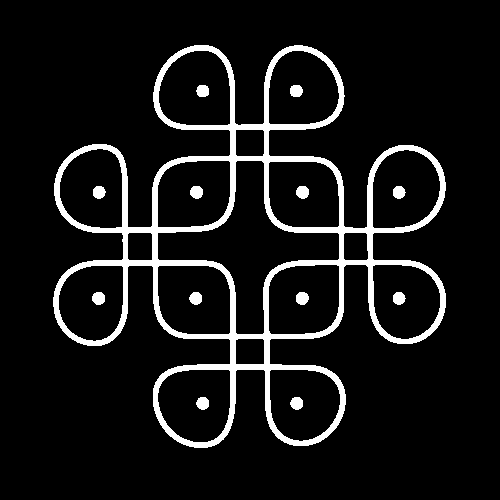
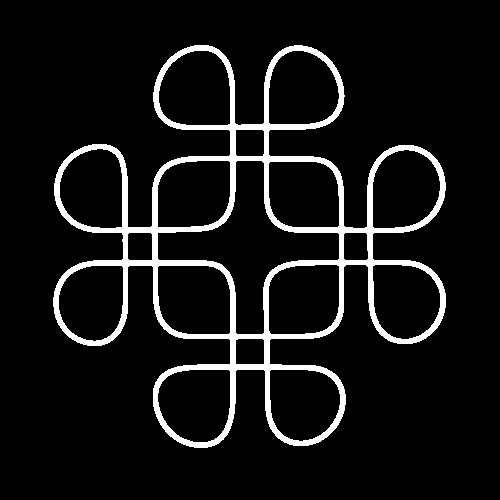
Fix1 dot area 150->100: 92% pipeline OK

diff --git a/src/detect_dots.py b/src/detect_dots.py
@@ -17,7 +17,7 @@ def detect_dots(path):
     for i in range(1, n):
         x, y, w, h, area = stats[i]
         roundness = area / (3.14159 * (max(w, h) / 2) ** 2)
-        if 150 < area < 4000 and 0.6 < w / h < 1.5 and roundness > 0.5:
+        if 100 < area < 4000 and 0.6 < w / h < 1.5 and roundness > 0.5:
             cx, cy = centroids[i]
             r = int(max(w, h) / 2) + 8
             cv2.circle(img, (int(cx), int(cy)), r, (0, 0, 255), 3)

diff --git a/docs/failures.md b/docs/failures.md
@@ -17,7 +17,7 @@ Add a row only when something really breaks. This is the answer bank for questio
 | 10 | k03 copy, 4000 x 3800 px (bad-input test A, 14 Nov) | App, resize | NOT a failure. Test of a huge picture. The app ran the whole pipeline as a normal picture, found dots and showed the path trace. No crash. Teju: "works pretty well". Dot count and GIF details were not written down | Nothing needed. The app resizes every upload to 500 px wide before any stage, so a huge picture is made small first |
 | 11 | Text file renamed `trap.png` (bad-input test B, 14 Nov) | App, open check | NOT a failure. The app said the file is not an image and did not crash. Exact words on screen NOT yet copied (the code's message is "This file is not a picture I can open.") | `cv2.imdecode` returns nothing for a non-picture, and the app shows the friendly sentence. TO DO: re-run and copy the exact words |
 | 12 | All-white `blank.png` (bad-input test C, 14 Nov) | Dots | NOT a failure. The app said there are no dots and did not crash. Exact words on screen NOT yet copied (the code's message is "I could not find any dots in this picture.") | `run_pipeline` stops when the dot count is 0 and the app shows the friendly sentence. TO DO: re-run and copy the exact words |
-| 13 | k17, k18, k19, k20 (12 dots, 2-4-4-2) | Dots | Baseline run, 15 Nov. Message "I could not find any dots in this picture." although each picture has 12 dots. The terminal showed curve pieces kept: 13, 13, 14, 16, so the dots stayed in the line picture: the dot test rejected them. k16 (same grid, 12 dots) passes. Cause NOT known yet. Proof: `docs/proof/run_all_BASELINE_15Nov2026.csv` | OPEN. Next: `python dot_diag.py k17` and `python dot_diag.py k16` to see which test (area, width/height, roundness) rejects the dots, then change only that limit |
+| 13 | k17, k18, k19, k20 (12 dots, 2-4-4-2) | Dots | Baseline run, 15 Nov. Message "I could not find any dots in this picture." although each picture has 12 dots. Terminal: curve pieces kept 13, 13, 14, 16 (the dots stayed in the line picture). `dot_diag.py` on k17 (500 px): all 12 dots have area 138 to 145 px, just BELOW the minimum 150. Their width/height (0.93 to 1.08) and roundness (0.90 to 1.07) pass. So only the area test rejects them. k16 (same grid) dots have area 177 to 187 px and pass. k18 to k20 not yet checked with `dot_diag.py`. Proof: `docs/proof/dot_diag_k17_k16_15Nov2026.txt` | OPEN, cause known for k17. Fix try 1: lower the minimum dot area from 150 to 100 in `detect_dots.py`, then `python run_all.py after_fix1` and check that k01 to k16 still pass and no picture gets MORE dots than expected (a small round speck could pass the lower limit) |
 | 14 | k10 (3x3, 9 dots) | Graph, Lock 1 | Baseline run, 15 Nov. Lock 1 stopped it with the loose-end message. Printed: 2 endpoints, 2 pieces, 10 junctions, 23 roads, degrees 1, 1, 4 x8, 6, 6 (two nodes with 1 road). Cause NOT known yet. Dots found not recorded in the baseline | OPEN. Next: look at `results/skel_k10.png` and the graph picture for a break or a stray mark |
 | 15 | k22 (13 dots, 1-3-5-3-1) | Graph, Lock 1 | Baseline run, 15 Nov. Lock 1 stopped it. Printed: 4 endpoints, 4 pieces, 18 junctions, 33 roads, degrees 0, 0, 0, 1, 2, 2, 2, 3, 4 x14 (odd nodes: 1 and 3). Cause NOT known yet. Dots found not recorded in the baseline | OPEN. Next: look at `results/skel_k22.png` |
 | 16 | k24 (13 dots, 1-3-5-3-1) | Graph, Lock 1 | Baseline run, 15 Nov. Lock 1 stopped it. Printed: 2 endpoints, 2 pieces, 15 junctions, 29 roads, degrees 0, 1, 2, 3, 4 x13 (odd nodes: 1 and 3). Cause NOT known yet. Dots found not recorded in the baseline | OPEN. Next: look at `results/skel_k24.png` |
